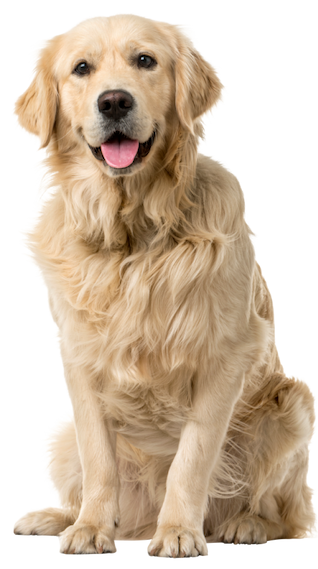
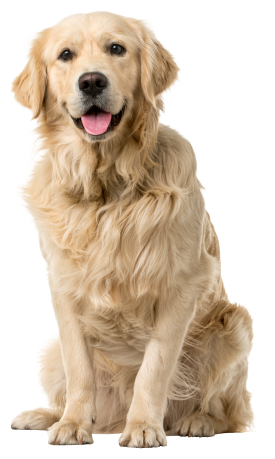
save fix image

diff --git a/src/pages/HomePage/HomePage.style.js b/src/pages/HomePage/HomePage.style.js
@@ -79,7 +79,7 @@ background-size: 280px 480px, 1000px 650px;
   max-width: 1279px;
   height: 1350px;
   background-position: center top 360px, center 30px;
-  background-size: 600px 1000px, 1449px 1190px;
+  background-size: 540px 1000px, 1449px 1190px;
 
   @media (min-device-pixel-ratio: 2),
   (min-resolution: 192dpi),
